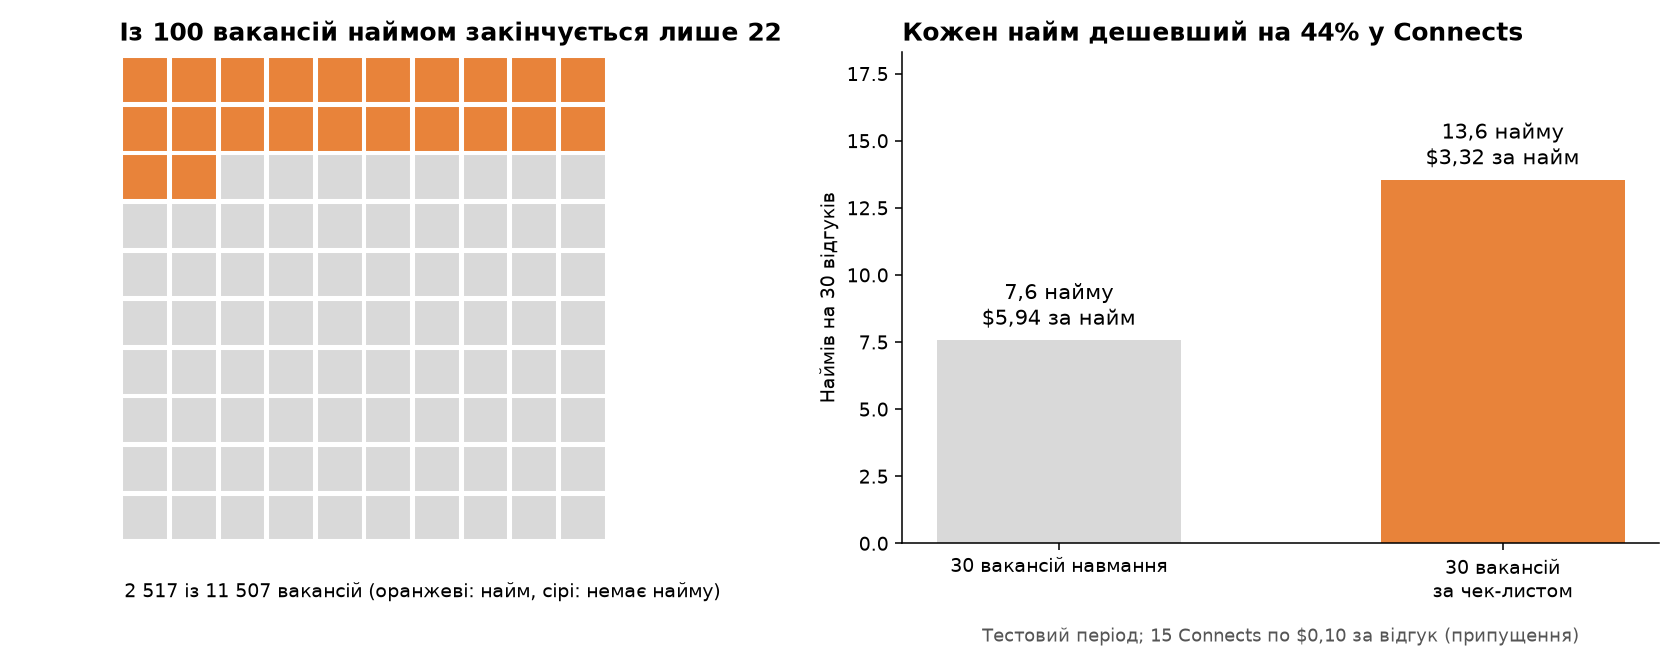
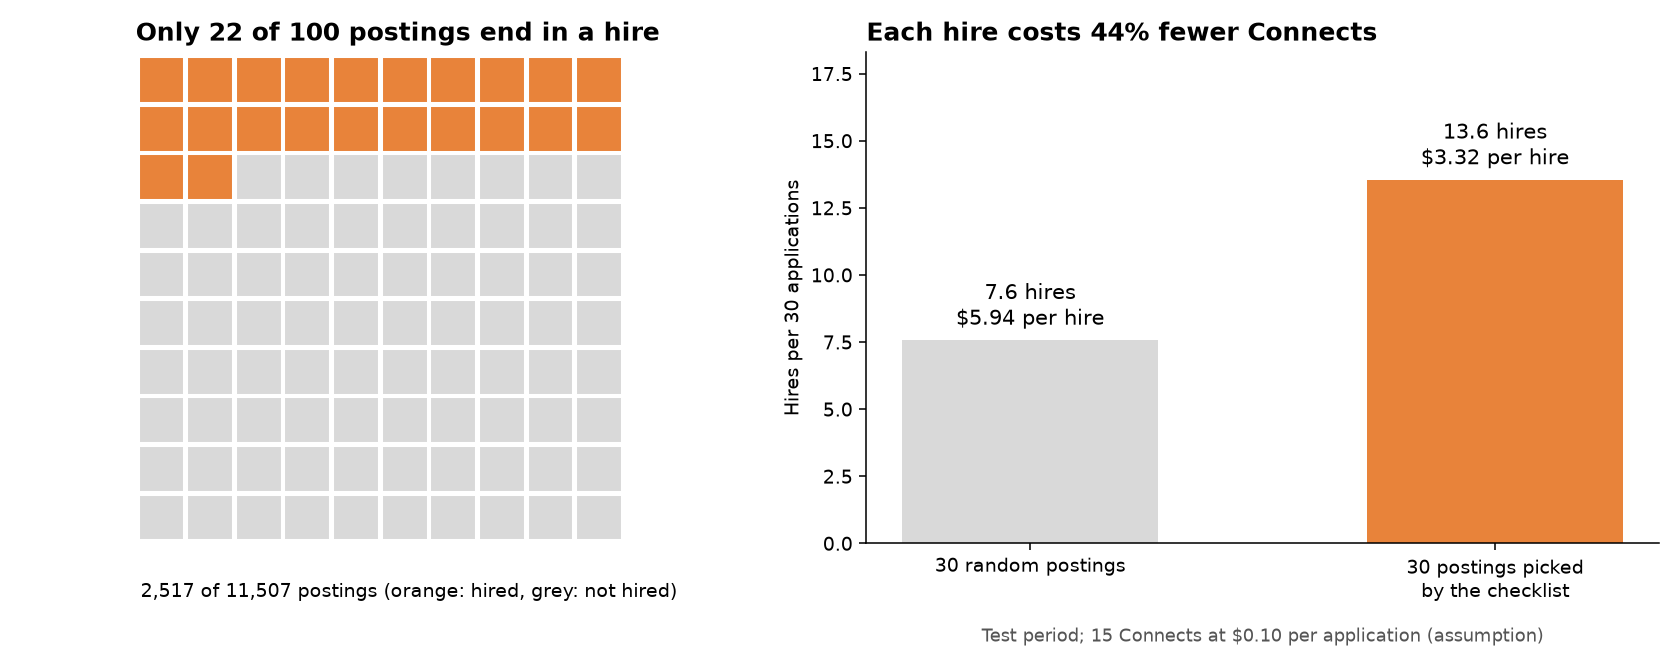
Spoiler chart: English labels

diff --git a/scripts/20_spoiler_chart.py b/scripts/20_spoiler_chart.py
@@ -2,7 +2,7 @@
 
 Left: 100 postings as squares, hired (orange) against not hired (grey), from the whole public CSV.
 Right: 30 applications, picked at random against picked by the checklist (top 30% by points); numbers from public/results/main_table.csv (test period).
-Output: figures/39_spoiler_hire_share.png (Ukrainian labels)
+Output: figures/39_spoiler_hire_share.png (English labels, like all charts)
 """
 import numpy as np
 import pandas as pd
@@ -22,7 +22,7 @@ rate_check = float(tab.loc["Rule: seven-question checklist", "top30_hire_rate"])
 usd_random = float(tab.loc["Coin flip", "usd_per_hire"])
 usd_check = float(tab.loc["Rule: seven-question checklist", "usd_per_hire"])
 saving = 1 - usd_check / usd_random
-fmt = lambda x, d=1: f"{x:.{d}f}".replace(".", ",")
+fmt = lambda x, d=1: f"{x:.{d}f}"
 
 fig, (a1, a2) = plt.subplots(1, 2, figsize=(12, 4.8), gridspec_kw={"width_ratios": [1, 1.1]})
 k = int(round(share * 100))
@@ -30,17 +30,17 @@ for i in range(100):
     r, c = divmod(i, 10)
     a1.add_patch(plt.Rectangle((c, 9 - r), 0.86, 0.86, color=ORANGE if i < k else GREY))
 a1.set_xlim(-0.1, 10); a1.set_ylim(-0.1, 10); a1.set_aspect("equal"); a1.axis("off")
-a1.set_title(f"Із 100 вакансій наймом закінчується лише {k}", fontsize=13, fontweight="bold", loc="left")
-a1.text(0, -0.9, f"{hired:,} із {n:,} вакансій".replace(",", " ") + " (оранжеві: найм, сірі: немає найму)", fontsize=10, va="top")
+a1.set_title(f"Only {k} of 100 postings end in a hire", fontsize=13, fontweight="bold", loc="left")
+a1.text(0, -0.9, f"{hired:,} of {n:,} postings (orange: hired, grey: not hired)", fontsize=10, va="top")
 
-labels = ["30 вакансій навмання", "30 вакансій\nза чек-листом"]
+labels = ["30 random postings", "30 postings picked\nby the checklist"]
 vals = [rate_random * 30, rate_check * 30]
 bars = a2.bar(labels, vals, color=[GREY, ORANGE], width=0.55)
 for b, v, usd in zip(bars, vals, [usd_random, usd_check]):
-    a2.text(b.get_x() + b.get_width() / 2, v + 0.3, f"{fmt(v)} найму\n${fmt(usd, 2)} за найм", ha="center", va="bottom", fontsize=11)
-a2.set_ylim(0, max(vals) * 1.35); a2.set_ylabel("Наймів на 30 відгуків"); a2.spines[["top", "right"]].set_visible(False)
-a2.set_title(f"Кожен найм дешевший на {saving * 100:.0f}% у Connects", fontsize=13, fontweight="bold", loc="left")
-a2.text(0.5, -0.2, "Тестовий період; 15 Connects по $0,10 за відгук (припущення)", transform=a2.transAxes, ha="center", fontsize=9, color="#555555")
+    a2.text(b.get_x() + b.get_width() / 2, v + 0.3, f"{fmt(v)} hires\n${fmt(usd, 2)} per hire", ha="center", va="bottom", fontsize=11)
+a2.set_ylim(0, max(vals) * 1.35); a2.set_ylabel("Hires per 30 applications"); a2.spines[["top", "right"]].set_visible(False)
+a2.set_title(f"Each hire costs {saving * 100:.0f}% fewer Connects", fontsize=13, fontweight="bold", loc="left")
+a2.text(0.5, -0.2, "Test period; 15 Connects at $0.10 per application (assumption)", transform=a2.transAxes, ha="center", fontsize=9, color="#555555")
 fig.tight_layout()
 fig.savefig(FIG / "39_spoiler_hire_share.png", dpi=140)
 print(k, hired, n, vals, usd_random, usd_check, round(saving, 3))
